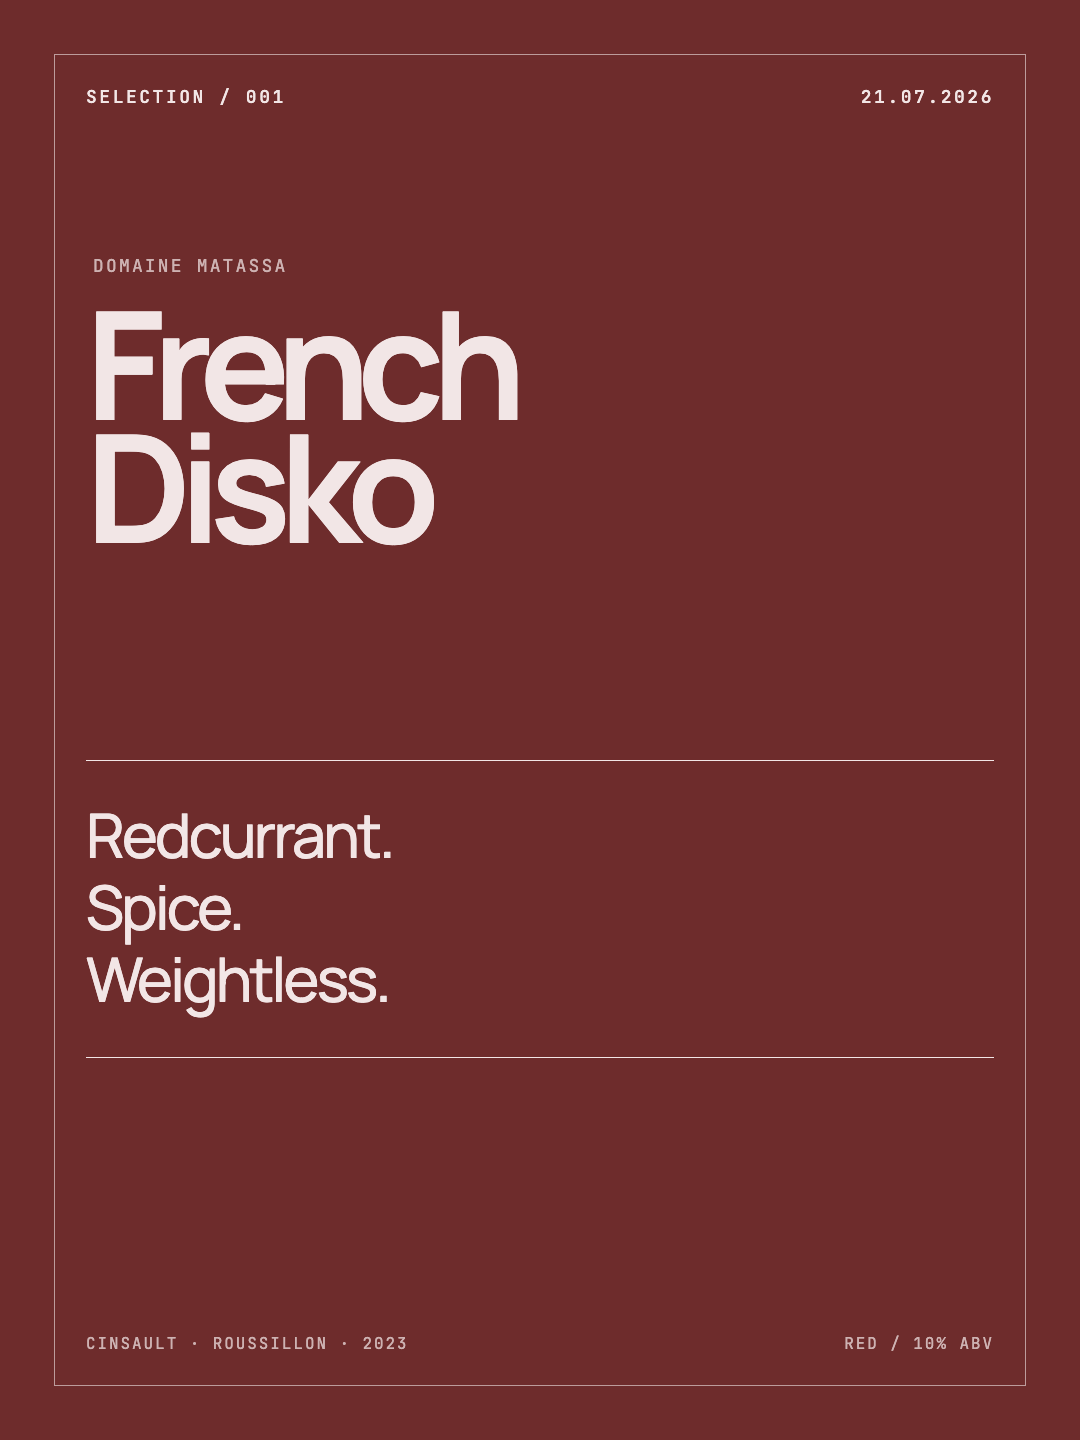
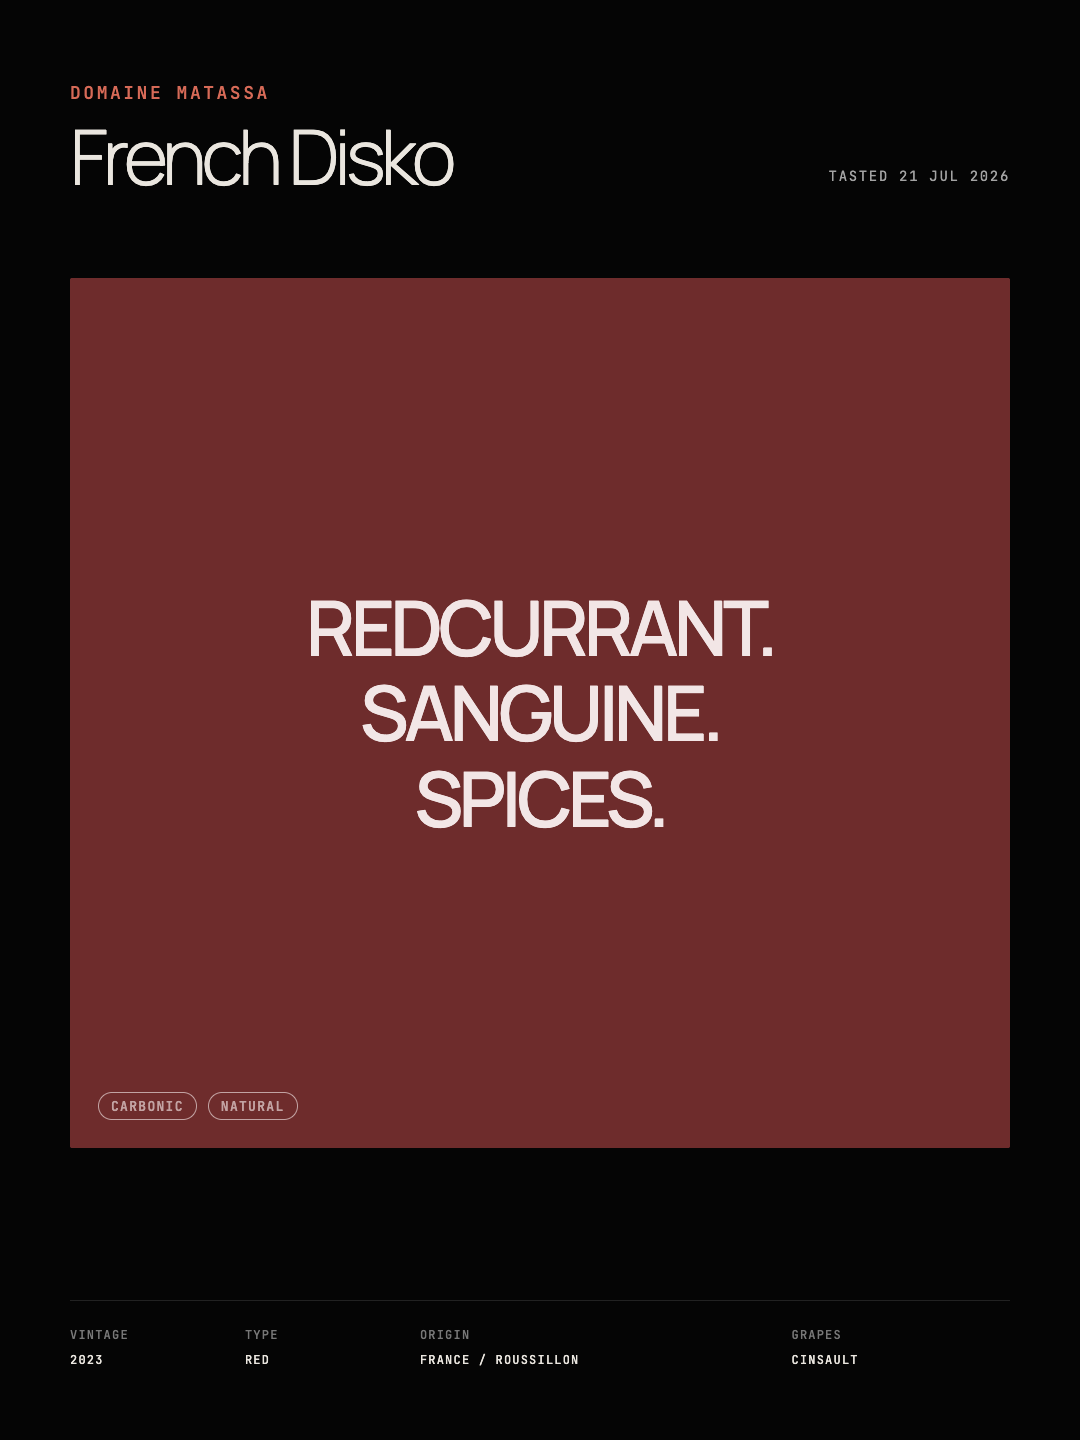
Added French Disko

diff --git a/src/content/selections/domaine-matassa-french-disko-2023.md b/src/content/selections/domaine-matassa-french-disko-2023.md
@@ -8,7 +8,7 @@ type: "Red"
 grapes: "Cinsault"
 price: "42 €"
 tags: ["Carbonic", "Natural"]
-vibe: "Redcurrant. Spice. Weightless."
+vibe: "Redcurrant. Sanguine. Spices."
 metrics:
   liveliness: 2
   drinkability: 2
@@ -24,10 +24,8 @@ date: 2026-07-21
 tastingDate: 2026-07-21
 ---
 
-French Disko is 100% Cinsault from the Roussillon. The 2023 had a short maceration, spent nine months in concrete, and has only 10% alcohol.
+French Disko is 100% Cinsault from the Roussillon. The 2023 saw a short maceration and nine months in concrete, and comes in at just 10% alcohol.
 
-It started closed, with a brief note of leather. Then it began to move. Redcurrant and spice appeared, followed by a sanguine character and the natural acidity of red fruit.
+It started closed, with something animal to it, a light trace of leather. The first impression on the palate was bitterness. Then it opened and came alive: profoundly sanguine, agile, a dancing wine that only got better as the meal went on. It rose to meet the muhammara, the tomatoes, and the pine nuts on sourdough, lifting each one. Beneath it all were very fresh red fruit and gorgeous acidity, natural and seamlessly integrated.
 
-It was agile, intensely mouth-watering, and never heavy. A daytime wine, full of life and very easy to drink.
-
-French Disko is a fitting name. This is a wine that dances. A real pleasure.
+A wine of joy, for the daytime, without a gram of weight. Weightless, with an inspiring delicacy. French Disko earns its name.